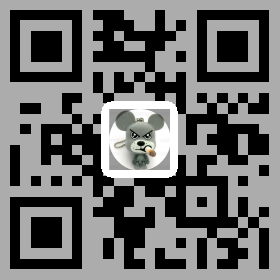
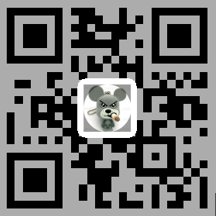
layout page

diff --git a/src/Lanting.IDCode.Web.Mvc/wwwroot/css/style.css b/src/Lanting.IDCode.Web.Mvc/wwwroot/css/style.css
@@ -7461,7 +7461,7 @@ fieldset[disabled] .form-control {
   transition: all 0.5s;
   font-family: "Roboto", sans-serif;
   background: #fdfdfd;
-  width: 280px;
+  width: 215px;
   overflow: hidden;
   display: inline-block;
   height: calc(100vh - 70px);
@@ -7504,7 +7504,7 @@ fieldset[disabled] .form-control {
         position: relative;
         border-bottom: 1px solid #e9e9e9;
         background: url("../images/lanting_code.png") no-repeat no-repeat;
-        height: 275px;
+        height: 220px;
     }
     .sidebar .user-info .image {
       margin-right: 12px;

diff --git a/src/Lanting.IDCode.Web.Mvc/Controllers/HomeController.cs b/src/Lanting.IDCode.Web.Mvc/Controllers/HomeController.cs
@@ -1,15 +1,19 @@
 using Microsoft.AspNetCore.Mvc;
 using Abp.AspNetCore.Mvc.Authorization;
 using Lanting.IDCode.Controllers;
+using Lanting.IDCode.Sessions;
+using System.Threading.Tasks;
 
 namespace Lanting.IDCode.Web.Controllers
 {
     [AbpMvcAuthorize]
     public class HomeController : IDCodeControllerBase
     {
-        public ActionResult Index()
+      
+        public async Task<ActionResult> Index()
         {
+           
             return View();
         }
-	}
+    }
 }

diff --git a/src/Lanting.IDCode.Web.Mvc/Views/Shared/Components/SideBarUserArea/SideBarUserAreaViewComponent.cs b/src/Lanting.IDCode.Web.Mvc/Views/Shared/Components/SideBarUserArea/SideBarUserAreaViewComponent.cs
@@ -25,6 +25,8 @@ namespace Lanting.IDCode.Web.Views.Shared.Components.SideBarUserArea
                 IsMultiTenancyEnabled = _multiTenancyConfig.IsEnabled,
             };
 
+          
+
             return View(model);
         }
     }
